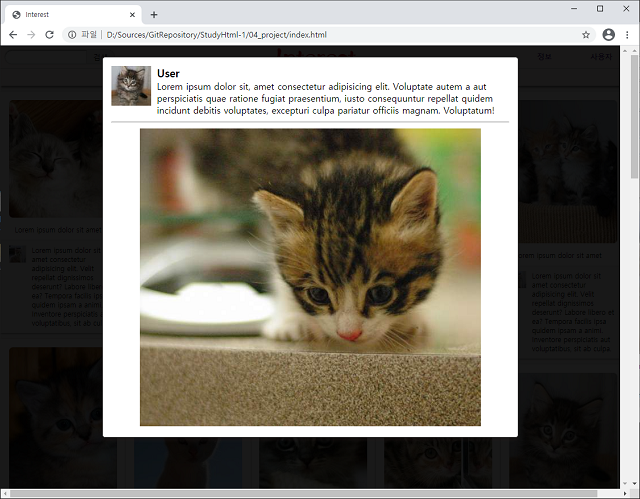
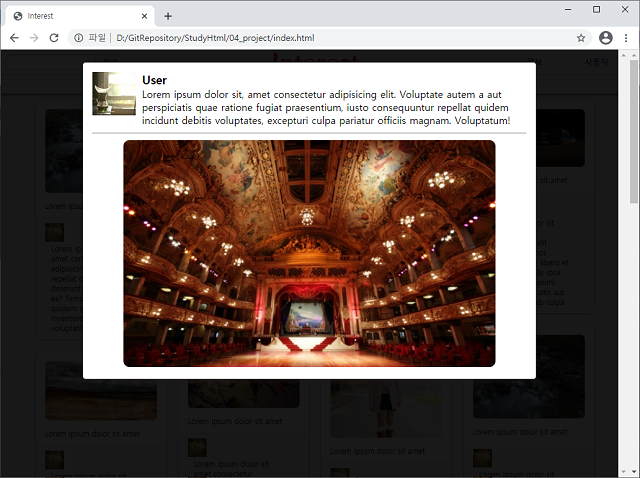
결과화면을 샘플이미지로 변경

diff --git a/04_project/index.html b/04_project/index.html
@@ -131,16 +131,17 @@
     </nav>
 
     <!-- 본문 영역 -->
+    
     <section id = "main-section">
         <!-- 페이퍼 복사 여러번 해야함-->
         <div class = "paper">
             <div class = "paper-holder">
-                <a><img width="180" src="https://placekitten.com/190/207"></a>
+                <a><img width="180" src="https://placeimg.com/640/480/any"></a>
             </div>
             <p class = "paper-description">Lorem ipsum dolor sit amet</p>
             <div class ="paper-content">
                 <a class = "paper-link" href = "#">
-                    <img src="https://placekitten.com/30/30">
+                    <img src="https://placeimg.com/30/30/any">
                 </a>
                 <p class = "paper-text">Lorem ipsum dolor sit amet consectetur adipisicing elit. Velit repellat dignissimos deserunt? Labore libero et ea? Tempora facilis ipsa quidem ipsam a animi. Inventore perspiciatis aut voluptatibus, sit ab culpa.</p>
             </div>
@@ -148,276 +149,207 @@
 
         <div class = "paper">
             <div class = "paper-holder">
-                <a><img width="180" src="https://placekitten.com/190/300"></a>
+                <a><img width="180" src="https://placeimg.com/640/390/any"></a>
             </div>
             <p class = "paper-description">Lorem ipsum dolor sit amet</p>
             <div class ="paper-content">
                 <a class = "paper-link" href = "#">
-                    <img src="https://placekitten.com/30/30">
+                    <img src="https://placeimg.com/30/30/any">
                 </a>
                 <p class = "paper-text">Lorem ipsum dolor sit amet consectetur adipisicing elit. Velit repellat dignissimos deserunt? Labore libero et ea? Tempora facilis ipsa quidem ipsam a animi. Inventore perspiciatis aut voluptatibus, sit ab culpa.</p>
             </div>
         </div>
+
         <div class = "paper">
             <div class = "paper-holder">
-                <a><img width="180" src="https://placekitten.com/190/250"></a>
+                <a><img width="180" src="https://placeimg.com/640/450/any"></a>
             </div>
             <p class = "paper-description">Lorem ipsum dolor sit amet</p>
             <div class ="paper-content">
                 <a class = "paper-link" href = "#">
-                    <img src="https://placekitten.com/30/30">
+                    <img src="https://placeimg.com/30/30/any">
                 </a>
                 <p class = "paper-text">Lorem ipsum dolor sit amet consectetur adipisicing elit. Velit repellat dignissimos deserunt? Labore libero et ea? Tempora facilis ipsa quidem ipsam a animi. Inventore perspiciatis aut voluptatibus, sit ab culpa.</p>
             </div>
         </div>
+
         <div class = "paper">
             <div class = "paper-holder">
-                <a><img width="180" src="https://placekitten.com/190/251"></a>
+                <a><img width="180" src="https://placeimg.com/640/330/any"></a>
             </div>
             <p class = "paper-description">Lorem ipsum dolor sit amet</p>
             <div class ="paper-content">
                 <a class = "paper-link" href = "#">
-                    <img src="https://placekitten.com/30/30">
+                    <img src="https://placeimg.com/30/30/any">
                 </a>
                 <p class = "paper-text">Lorem ipsum dolor sit amet consectetur adipisicing elit. Velit repellat dignissimos deserunt? Labore libero et ea? Tempora facilis ipsa quidem ipsam a animi. Inventore perspiciatis aut voluptatibus, sit ab culpa.</p>
             </div>
         </div>
+        
         <div class = "paper">
             <div class = "paper-holder">
-                <a><img width="180" src="https://placekitten.com/190/252"></a>
+                <a><img width="180" src="https://placeimg.com/640/480/any"></a>
             </div>
             <p class = "paper-description">Lorem ipsum dolor sit amet</p>
             <div class ="paper-content">
                 <a class = "paper-link" href = "#">
-                    <img src="https://placekitten.com/30/30">
+                    <img src="https://placeimg.com/30/30/any">
                 </a>
                 <p class = "paper-text">Lorem ipsum dolor sit amet consectetur adipisicing elit. Velit repellat dignissimos deserunt? Labore libero et ea? Tempora facilis ipsa quidem ipsam a animi. Inventore perspiciatis aut voluptatibus, sit ab culpa.</p>
             </div>
         </div>
+
         <div class = "paper">
             <div class = "paper-holder">
-                <a><img width="180" src="https://placekitten.com/190/253"></a>
+                <a><img width="180" src="https://placeimg.com/640/360/any"></a>
             </div>
             <p class = "paper-description">Lorem ipsum dolor sit amet</p>
             <div class ="paper-content">
                 <a class = "paper-link" href = "#">
-                    <img src="https://placekitten.com/30/30">
+                    <img src="https://placeimg.com/30/30/any">
                 </a>
                 <p class = "paper-text">Lorem ipsum dolor sit amet consectetur adipisicing elit. Velit repellat dignissimos deserunt? Labore libero et ea? Tempora facilis ipsa quidem ipsam a animi. Inventore perspiciatis aut voluptatibus, sit ab culpa.</p>
             </div>
         </div>
+
         <div class = "paper">
             <div class = "paper-holder">
-                <a><img width="180" src="https://placekitten.com/190/254"></a>
+                <a><img width="180" src="https://placeimg.com/640/470/any"></a>
             </div>
             <p class = "paper-description">Lorem ipsum dolor sit amet</p>
             <div class ="paper-content">
                 <a class = "paper-link" href = "#">
-                    <img src="https://placekitten.com/30/30">
+                    <img src="https://placeimg.com/30/30/any">
                 </a>
                 <p class = "paper-text">Lorem ipsum dolor sit amet consectetur adipisicing elit. Velit repellat dignissimos deserunt? Labore libero et ea? Tempora facilis ipsa quidem ipsam a animi. Inventore perspiciatis aut voluptatibus, sit ab culpa.</p>
             </div>
         </div>
+
         <div class = "paper">
             <div class = "paper-holder">
-                <a><img width="180" src="https://placekitten.com/190/255"></a>
+                <a><img width="180" src="https://placeimg.com/640/340/any"></a>
             </div>
             <p class = "paper-description">Lorem ipsum dolor sit amet</p>
             <div class ="paper-content">
                 <a class = "paper-link" href = "#">
-                    <img src="https://placekitten.com/30/30">
+                    <img src="https://placeimg.com/30/30/any">
                 </a>
                 <p class = "paper-text">Lorem ipsum dolor sit amet consectetur adipisicing elit. Velit repellat dignissimos deserunt? Labore libero et ea? Tempora facilis ipsa quidem ipsam a animi. Inventore perspiciatis aut voluptatibus, sit ab culpa.</p>
             </div>
         </div>
+
         <div class = "paper">
             <div class = "paper-holder">
-                <a><img width="180" src="https://placekitten.com/190/256"></a>
+                <a><img width="180" src="https://placeimg.com/640/450/any"></a>
             </div>
             <p class = "paper-description">Lorem ipsum dolor sit amet</p>
             <div class ="paper-content">
                 <a class = "paper-link" href = "#">
-                    <img src="https://placekitten.com/30/30">
+                    <img src="https://placeimg.com/30/30/any">
                 </a>
                 <p class = "paper-text">Lorem ipsum dolor sit amet consectetur adipisicing elit. Velit repellat dignissimos deserunt? Labore libero et ea? Tempora facilis ipsa quidem ipsam a animi. Inventore perspiciatis aut voluptatibus, sit ab culpa.</p>
             </div>
         </div>
+
         <div class = "paper">
             <div class = "paper-holder">
-                <a><img width="180" src="https://placekitten.com/190/257"></a>
+                <a><img width="180" src="https://placeimg.com/640/500/any"></a>
             </div>
             <p class = "paper-description">Lorem ipsum dolor sit amet</p>
             <div class ="paper-content">
                 <a class = "paper-link" href = "#">
-                    <img src="https://placekitten.com/30/30">
+                    <img src="https://placeimg.com/30/30/any">
                 </a>
                 <p class = "paper-text">Lorem ipsum dolor sit amet consectetur adipisicing elit. Velit repellat dignissimos deserunt? Labore libero et ea? Tempora facilis ipsa quidem ipsam a animi. Inventore perspiciatis aut voluptatibus, sit ab culpa.</p>
             </div>
         </div>
+
         <div class = "paper">
             <div class = "paper-holder">
-                <a><img width="180" src="https://placekitten.com/190/258"></a>
+                <a><img width="180" src="https://placeimg.com/640/240/any"></a>
             </div>
             <p class = "paper-description">Lorem ipsum dolor sit amet</p>
             <div class ="paper-content">
                 <a class = "paper-link" href = "#">
-                    <img src="https://placekitten.com/30/30">
+                    <img src="https://placeimg.com/30/30/any">
                 </a>
                 <p class = "paper-text">Lorem ipsum dolor sit amet consectetur adipisicing elit. Velit repellat dignissimos deserunt? Labore libero et ea? Tempora facilis ipsa quidem ipsam a animi. Inventore perspiciatis aut voluptatibus, sit ab culpa.</p>
             </div>
         </div>
+
         <div class = "paper">
             <div class = "paper-holder">
-                <a><img width="180" src="https://placekitten.com/190/259"></a>
+                <a><img width="180" src="https://placeimg.com/640/340/any"></a>
             </div>
             <p class = "paper-description">Lorem ipsum dolor sit amet</p>
             <div class ="paper-content">
                 <a class = "paper-link" href = "#">
-                    <img src="https://placekitten.com/30/30">
+                    <img src="https://placeimg.com/30/30/any">
                 </a>
                 <p class = "paper-text">Lorem ipsum dolor sit amet consectetur adipisicing elit. Velit repellat dignissimos deserunt? Labore libero et ea? Tempora facilis ipsa quidem ipsam a animi. Inventore perspiciatis aut voluptatibus, sit ab culpa.</p>
             </div>
         </div>
+
         <div class = "paper">
             <div class = "paper-holder">
-                <a><img width="180" src="https://placekitten.com/190/265"></a>
+                <a><img width="180" src="https://placeimg.com/640/500/any"></a>
             </div>
             <p class = "paper-description">Lorem ipsum dolor sit amet</p>
             <div class ="paper-content">
                 <a class = "paper-link" href = "#">
-                    <img src="https://placekitten.com/30/30">
+                    <img src="https://placeimg.com/30/30/any">
                 </a>
                 <p class = "paper-text">Lorem ipsum dolor sit amet consectetur adipisicing elit. Velit repellat dignissimos deserunt? Labore libero et ea? Tempora facilis ipsa quidem ipsam a animi. Inventore perspiciatis aut voluptatibus, sit ab culpa.</p>
             </div>
         </div>
+
         <div class = "paper">
             <div class = "paper-holder">
-                <a><img width="180" src="https://placekitten.com/190/387"></a>
+                <a><img width="180" src="https://placeimg.com/640/350/any"></a>
             </div>
             <p class = "paper-description">Lorem ipsum dolor sit amet</p>
             <div class ="paper-content">
                 <a class = "paper-link" href = "#">
-                    <img src="https://placekitten.com/30/30">
+                    <img src="https://placeimg.com/30/30/any">
                 </a>
                 <p class = "paper-text">Lorem ipsum dolor sit amet consectetur adipisicing elit. Velit repellat dignissimos deserunt? Labore libero et ea? Tempora facilis ipsa quidem ipsam a animi. Inventore perspiciatis aut voluptatibus, sit ab culpa.</p>
             </div>
         </div>
+
         <div class = "paper">
             <div class = "paper-holder">
-                <a><img width="180" src="https://placekitten.com/190/350"></a>
+                <a><img width="180" src="https://placeimg.com/640/530/any"></a>
             </div>
             <p class = "paper-description">Lorem ipsum dolor sit amet</p>
             <div class ="paper-content">
                 <a class = "paper-link" href = "#">
-                    <img src="https://placekitten.com/30/30">
+                    <img src="https://placeimg.com/30/30/any">
                 </a>
                 <p class = "paper-text">Lorem ipsum dolor sit amet consectetur adipisicing elit. Velit repellat dignissimos deserunt? Labore libero et ea? Tempora facilis ipsa quidem ipsam a animi. Inventore perspiciatis aut voluptatibus, sit ab culpa.</p>
             </div>
         </div>
+
         <div class = "paper">
             <div class = "paper-holder">
-                <a><img width="180" src="https://placekitten.com/190/360"></a>
+                <a><img width="180" src="https://placeimg.com/640/400/any"></a>
             </div>
             <p class = "paper-description">Lorem ipsum dolor sit amet</p>
             <div class ="paper-content">
                 <a class = "paper-link" href = "#">
-                    <img src="https://placekitten.com/30/30">
+                    <img src="https://placeimg.com/30/30/any">
                 </a>
                 <p class = "paper-text">Lorem ipsum dolor sit amet consectetur adipisicing elit. Velit repellat dignissimos deserunt? Labore libero et ea? Tempora facilis ipsa quidem ipsam a animi. Inventore perspiciatis aut voluptatibus, sit ab culpa.</p>
             </div>
         </div>
+        
         <div class = "paper">
             <div class = "paper-holder">
-                <a><img width="180" src="https://placekitten.com/190/280"></a>
+                <a><img width="180" src="https://placeimg.com/640/340/any"></a>
             </div>
             <p class = "paper-description">Lorem ipsum dolor sit amet</p>
             <div class ="paper-content">
                 <a class = "paper-link" href = "#">
-                    <img src="https://placekitten.com/30/30">
-                </a>
-                <p class = "paper-text">Lorem ipsum dolor sit amet consectetur adipisicing elit. Velit repellat dignissimos deserunt? Labore libero et ea? Tempora facilis ipsa quidem ipsam a animi. Inventore perspiciatis aut voluptatibus, sit ab culpa.</p>
-            </div>
-        </div>
-        <div class = "paper">
-            <div class = "paper-holder">
-                <a><img width="180" src="https://placekitten.com/190/218"></a>
-            </div>
-            <p class = "paper-description">Lorem ipsum dolor sit amet</p>
-            <div class ="paper-content">
-                <a class = "paper-link" href = "#">
-                    <img src="https://placekitten.com/30/30">
-                </a>
-                <p class = "paper-text">Lorem ipsum dolor sit amet consectetur adipisicing elit. Velit repellat dignissimos deserunt? Labore libero et ea? Tempora facilis ipsa quidem ipsam a animi. Inventore perspiciatis aut voluptatibus, sit ab culpa.</p>
-            </div>
-        </div>
-        <div class = "paper">
-            <div class = "paper-holder">
-                <a><img width="180" src="https://placekitten.com/190/282"></a>
-            </div>
-            <p class = "paper-description">Lorem ipsum dolor sit amet</p>
-            <div class ="paper-content">
-                <a class = "paper-link" href = "#">
-                    <img src="https://placekitten.com/30/30">
-                </a>
-                <p class = "paper-text">Lorem ipsum dolor sit amet consectetur adipisicing elit. Velit repellat dignissimos deserunt? Labore libero et ea? Tempora facilis ipsa quidem ipsam a animi. Inventore perspiciatis aut voluptatibus, sit ab culpa.</p>
-            </div>
-        </div>
-        <div class = "paper">
-            <div class = "paper-holder">
-                <a><img width="180" src="https://placekitten.com/190/242"></a>
-            </div>
-            <p class = "paper-description">Lorem ipsum dolor sit amet</p>
-            <div class ="paper-content">
-                <a class = "paper-link" href = "#">
-                    <img src="https://placekitten.com/30/30">
-                </a>
-                <p class = "paper-text">Lorem ipsum dolor sit amet consectetur adipisicing elit. Velit repellat dignissimos deserunt? Labore libero et ea? Tempora facilis ipsa quidem ipsam a animi. Inventore perspiciatis aut voluptatibus, sit ab culpa.</p>
-            </div>
-        </div>
-        <div class = "paper">
-            <div class = "paper-holder">
-                <a><img width="180" src="https://placekitten.com/190/285"></a>
-            </div>
-            <p class = "paper-description">Lorem ipsum dolor sit amet</p>
-            <div class ="paper-content">
-                <a class = "paper-link" href = "#">
-                    <img src="https://placekitten.com/30/30">
-                </a>
-                <p class = "paper-text">Lorem ipsum dolor sit amet consectetur adipisicing elit. Velit repellat dignissimos deserunt? Labore libero et ea? Tempora facilis ipsa quidem ipsam a animi. Inventore perspiciatis aut voluptatibus, sit ab culpa.</p>
-            </div>
-        </div>
-        <div class = "paper">
-            <div class = "paper-holder">
-                <a><img width="180" src="https://placekitten.com/190/290"></a>
-            </div>
-            <p class = "paper-description">Lorem ipsum dolor sit amet</p>
-            <div class ="paper-content">
-                <a class = "paper-link" href = "#">
-                    <img src="https://placekitten.com/30/30">
-                </a>
-                <p class = "paper-text">Lorem ipsum dolor sit amet consectetur adipisicing elit. Velit repellat dignissimos deserunt? Labore libero et ea? Tempora facilis ipsa quidem ipsam a animi. Inventore perspiciatis aut voluptatibus, sit ab culpa.</p>
-            </div>
-        </div>
-        <div class = "paper">
-            <div class = "paper-holder">
-                <a><img width="180" src="https://placekitten.com/190/310"></a>
-            </div>
-            <p class = "paper-description">Lorem ipsum dolor sit amet</p>
-            <div class ="paper-content">
-                <a class = "paper-link" href = "#">
-                    <img src="https://placekitten.com/30/30">
-                </a>
-                <p class = "paper-text">Lorem ipsum dolor sit amet consectetur adipisicing elit. Velit repellat dignissimos deserunt? Labore libero et ea? Tempora facilis ipsa quidem ipsam a animi. Inventore perspiciatis aut voluptatibus, sit ab culpa.</p>
-            </div>
-        </div>
-        <div class = "paper">
-            <div class = "paper-holder">
-                <a><img width="180" src="https://placekitten.com/190/320"></a>
-            </div>
-            <p class = "paper-description">Lorem ipsum dolor sit amet</p>
-            <div class ="paper-content">
-                <a class = "paper-link" href = "#">
-                    <img src="https://placekitten.com/30/30">
+                    <img src="https://placeimg.com/30/30/any">
                 </a>
                 <p class = "paper-text">Lorem ipsum dolor sit amet consectetur adipisicing elit. Velit repellat dignissimos deserunt? Labore libero et ea? Tempora facilis ipsa quidem ipsam a animi. Inventore perspiciatis aut voluptatibus, sit ab culpa.</p>
             </div>
@@ -430,7 +362,7 @@
         <div id ="lightbox">
             <div class = "user-information">
                 <a class = "user-information-image" href ="#">
-                    <img src = "https://placekitten.com/70/70">
+                    <img src = "https://placeimg.com/70/70/any">
                 </a>
                 <div class = "user-information-text">
                     <h3>User</h3>
@@ -438,7 +370,7 @@
                 </div>
             </div>
             <hr class = "lightbox-splitter">
-            <img id="random-image" src="https://placekitten.com/600/751" width = "600">
+            <img id="random-image" src="https://placeimg.com/600/751/any" width = "600">
         </div>
     </div>
     <footer id = "main-footer"></footer>
